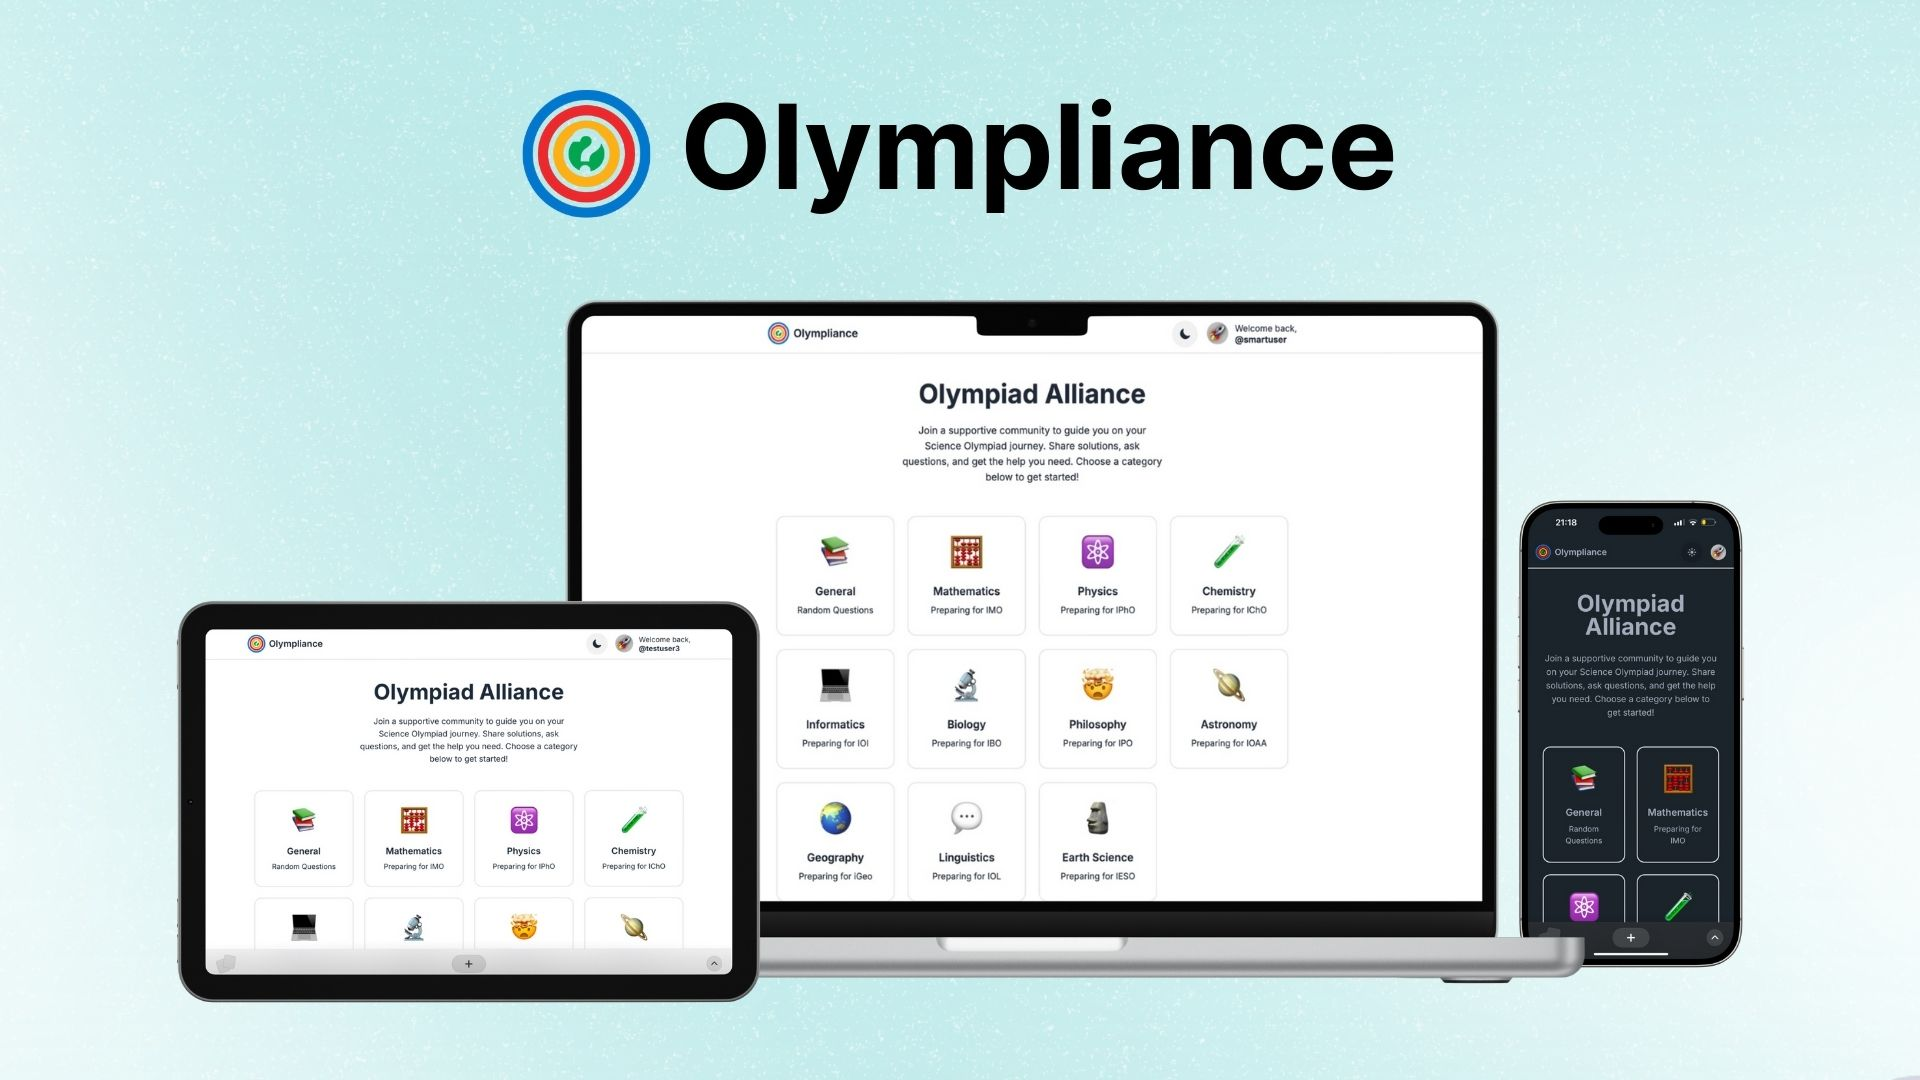
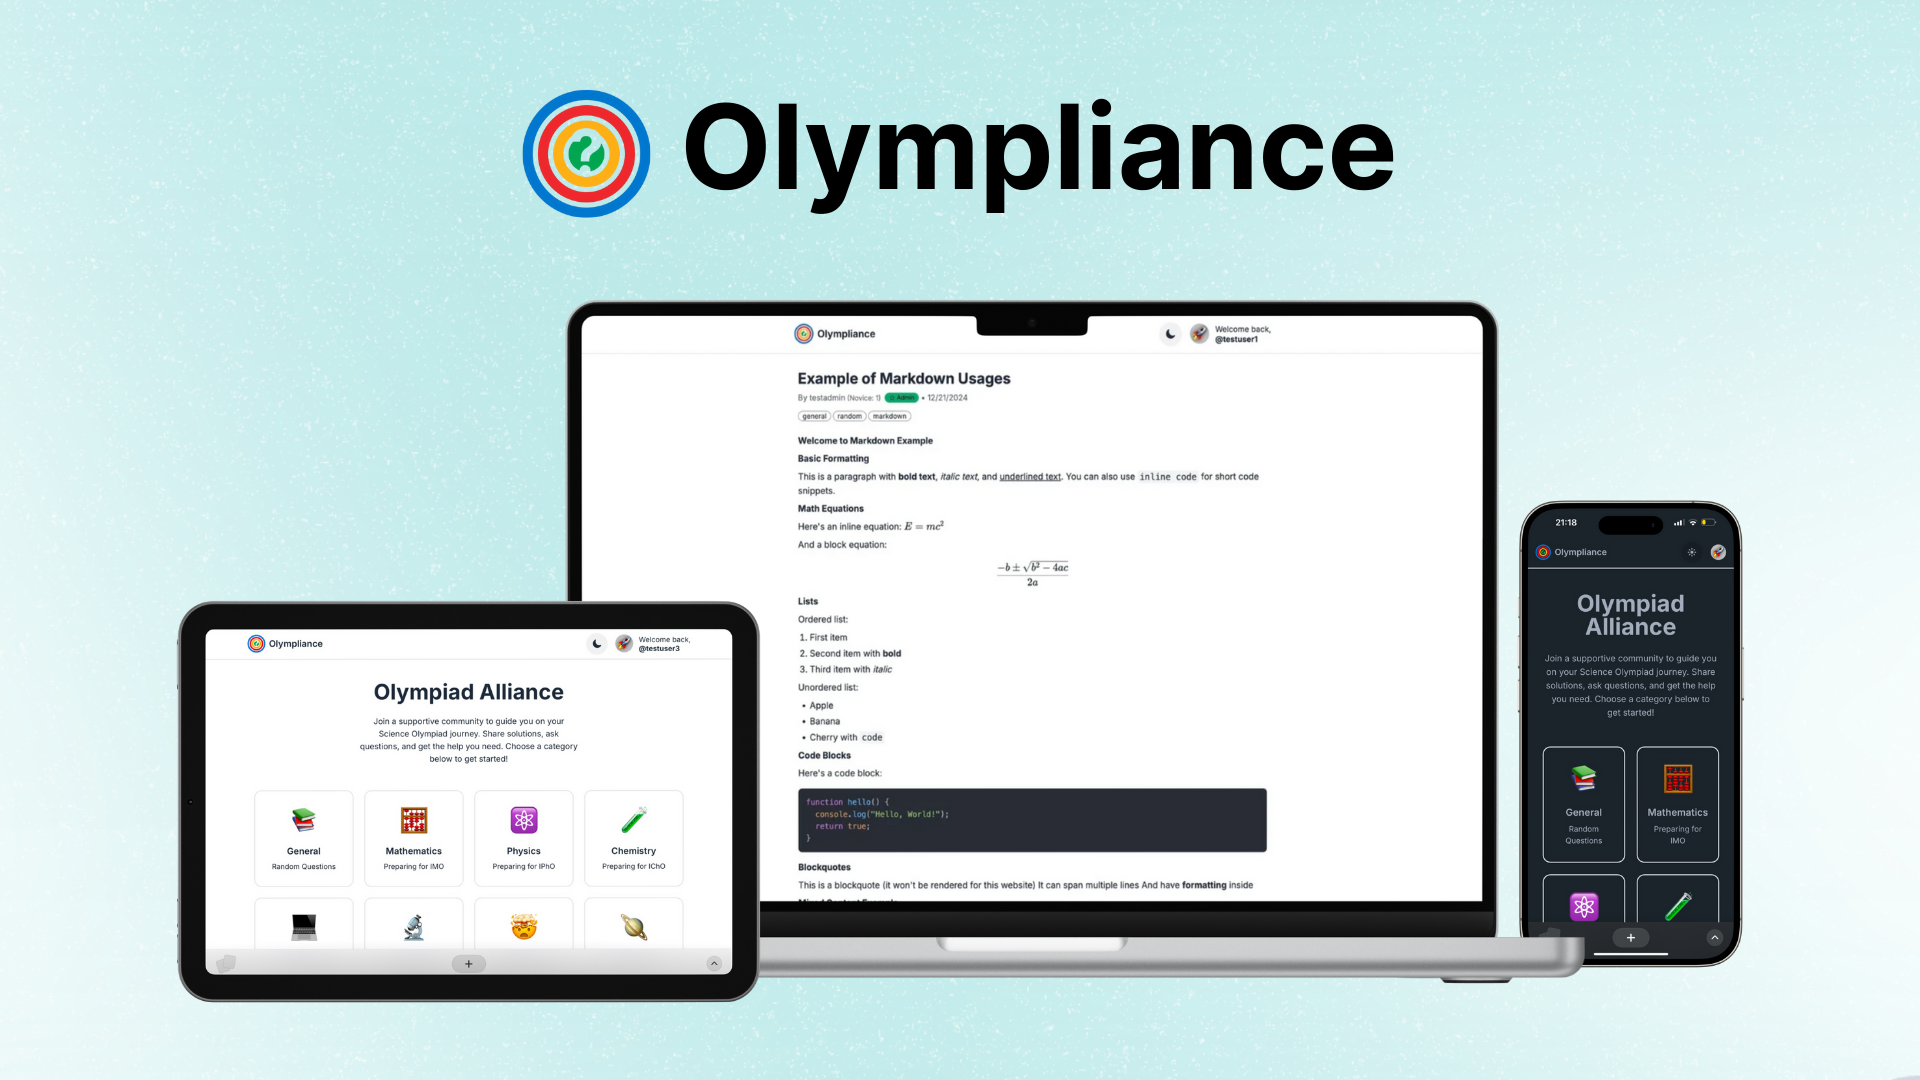
update documentation

diff --git a/README.md b/README.md
@@ -42,6 +42,7 @@
   - [5.3 Role-Based Access Controls](#53-role-based-access-controls)
   - [5.4 User Reputation and Badge](#54-user-reputation-and-badge)
   - [5.5 Threads and Comments](#55-threads-and-comments)
+  - [5.6 Markdown Support](#56-markdown-support)
 - [6. Acknowledgment](#6-acknowledgment)
 - [7. License](#7-license)
 
@@ -133,13 +134,17 @@ Note that your rank will also be displayed next to your name when you post a thr
 
 You can choose a thread category to begin with on the homepage. Currently, we have around 11 categories, following the officially recognized International Science Olympiads listed on [Wikipedia](https://en.wikipedia.org/wiki/International_Science_Olympiad). IAO and IOAA are categorized under Astronomy, and there is an additional General section for discussing random topics or IJSO, which are not categorized as individual subjects.
 
-In each category page, you will see a title and a list of all threads. The threads are fetched with a maximum of 5 per page. You can use the navigation buttons at the bottom to move between pages. You can also choose to sort the page by Newest, Top Upvoted, Most Comments, or Last Updated. There is a button at the top, labeled "Ask a Question," to create a new thread. To create a thread, you need a title, a content, and optionally tags.
+In each category page, you will see a title and a list of all threads. The threads are fetched with a maximum of 5 per page. You can use the navigation buttons at the bottom to move between pages. There is a leaderboard for the mentioned reputation points below the navigation. You can also choose to sort the page by Newest, Top Upvoted, Most Comments, or Last Updated. Alternatively, you can browse thread in the page with keywords. Keywords are matched with the title, content, and tags of each thread. There is a button at the top, labeled "Ask a Question," to create a new thread. To create a thread, you need a title, a content, and optionally tags.
 
 If you click on any existing thread, you will be brought to a single-thread page. The thread stats, including the number of upvotes, downvotes, comments, followers, etc., are displayed on the category page, but you cannot interact with them directly. You need to visit the thread page to interact with it.
 
 On each thread page, you can interact with the thread or reply to comments. When clicked, it will open a modal to make a comment. Below the thread content, you'll find the comment section. You can freely interact with comments, just as you would with the thread. The only exception is that you cannot follow a comment. Comments can be sorted by "Oldest" or "Most Upvoted." When replying to a comment, it will display as "Replied to..." followed by that comment. Comment are fetched with a maximum of 10 per page.
 
 **Note**: The thread and comment owners will have a pencil icon and a trash icon next to their content, allowing them to edit or delete their posts. Comments will be flagged as "[Comment deleted]" while the thread will simply disappear. Admins and moderators have access to delete any comments, but they cannot edit them.
+
+### 5.6 Markdown Support
+
+All text editors, including thread content and comments, render Markdown with some limitations (see this [file](/src/components/Common/MarkdownRenderer.tsx)). You can use code blocks and LaTeX equations. A preview toggle allows you to view the rendered output, but editing is disabled in preview mode, so be sure to turn it off before making changes.
 
 ## 6. Acknowledgment
 
